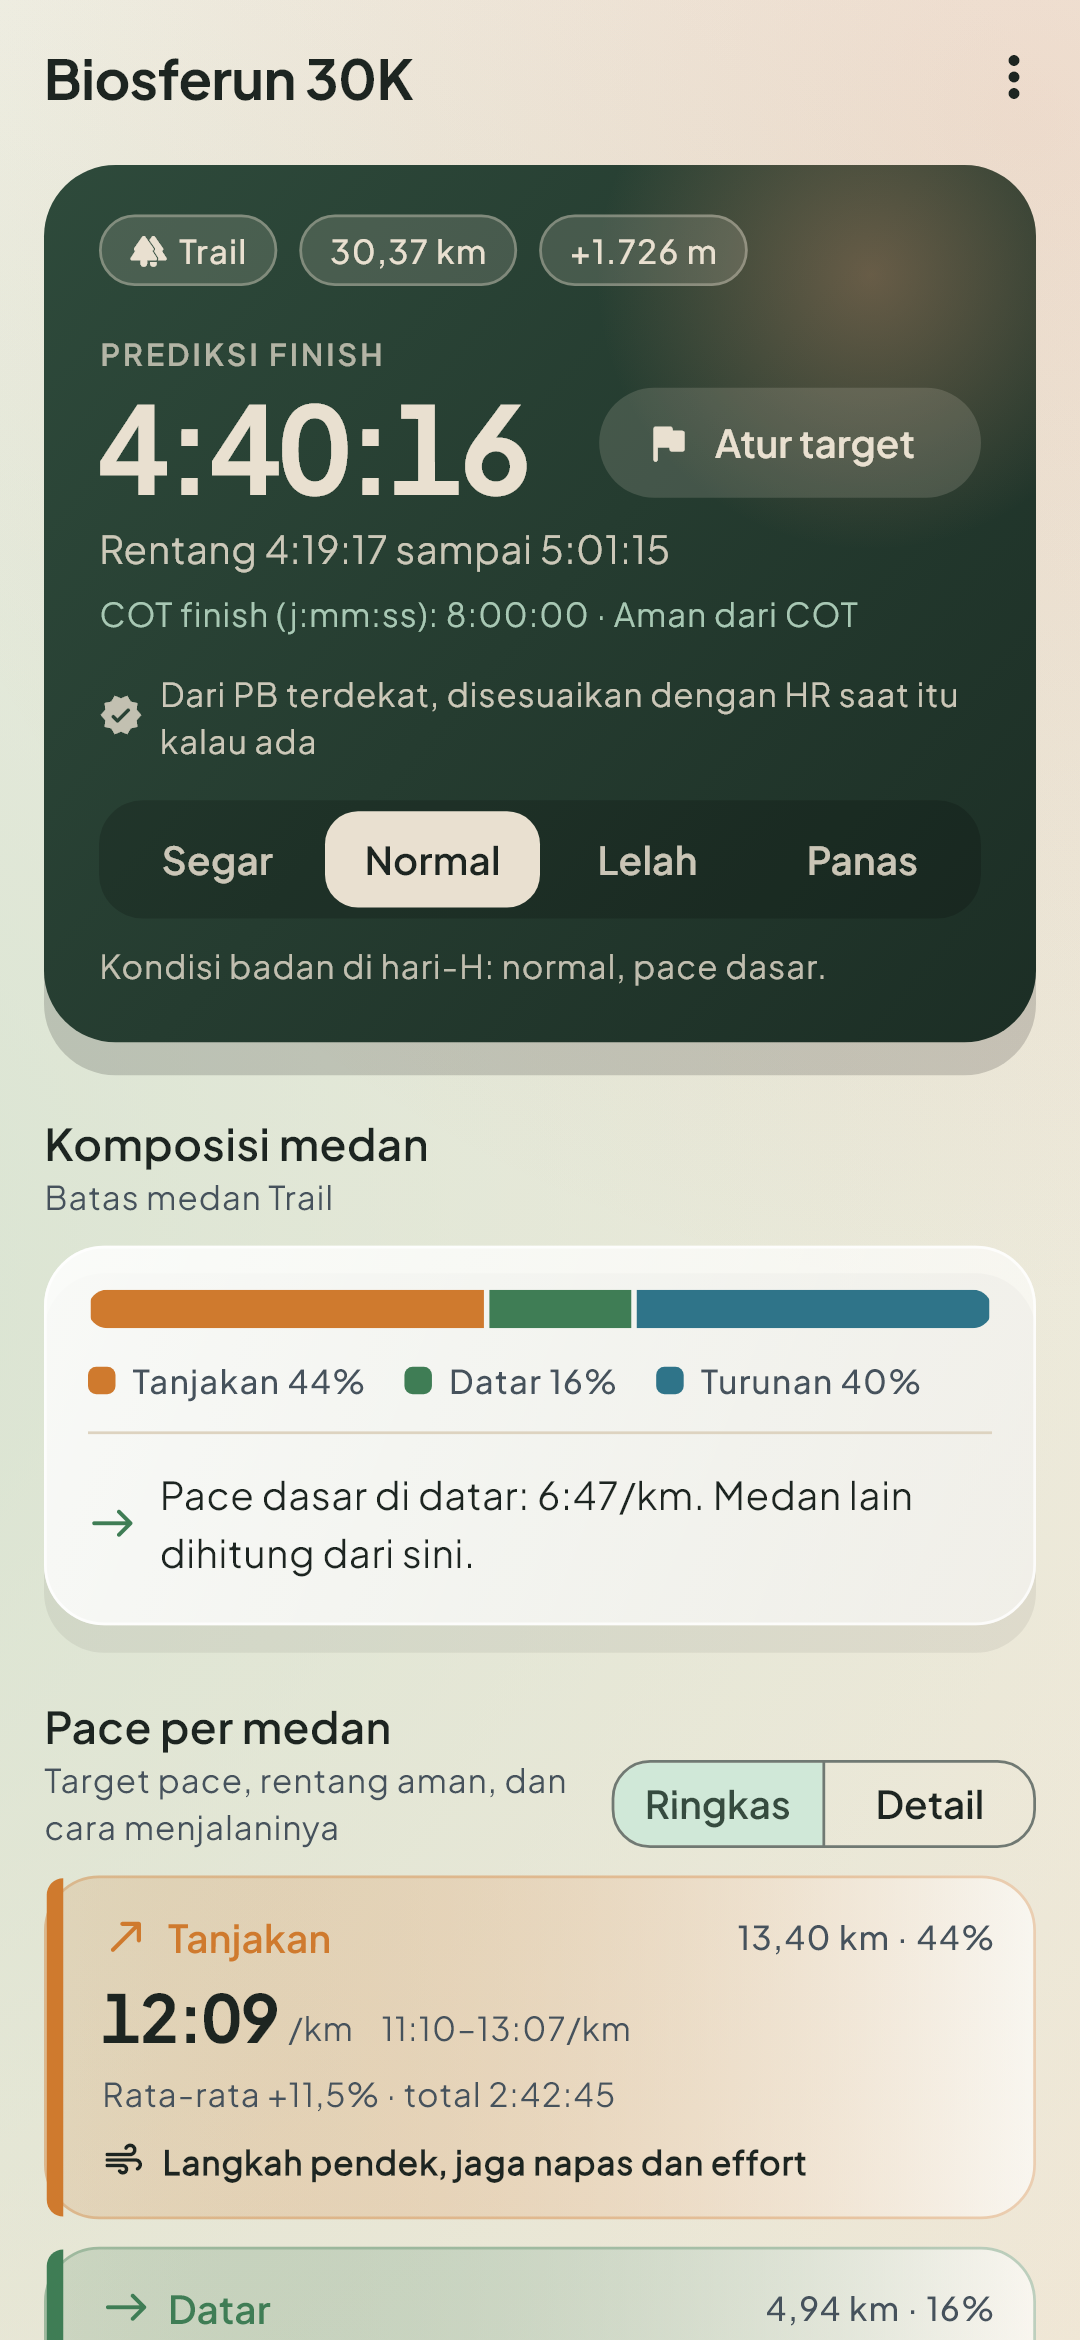
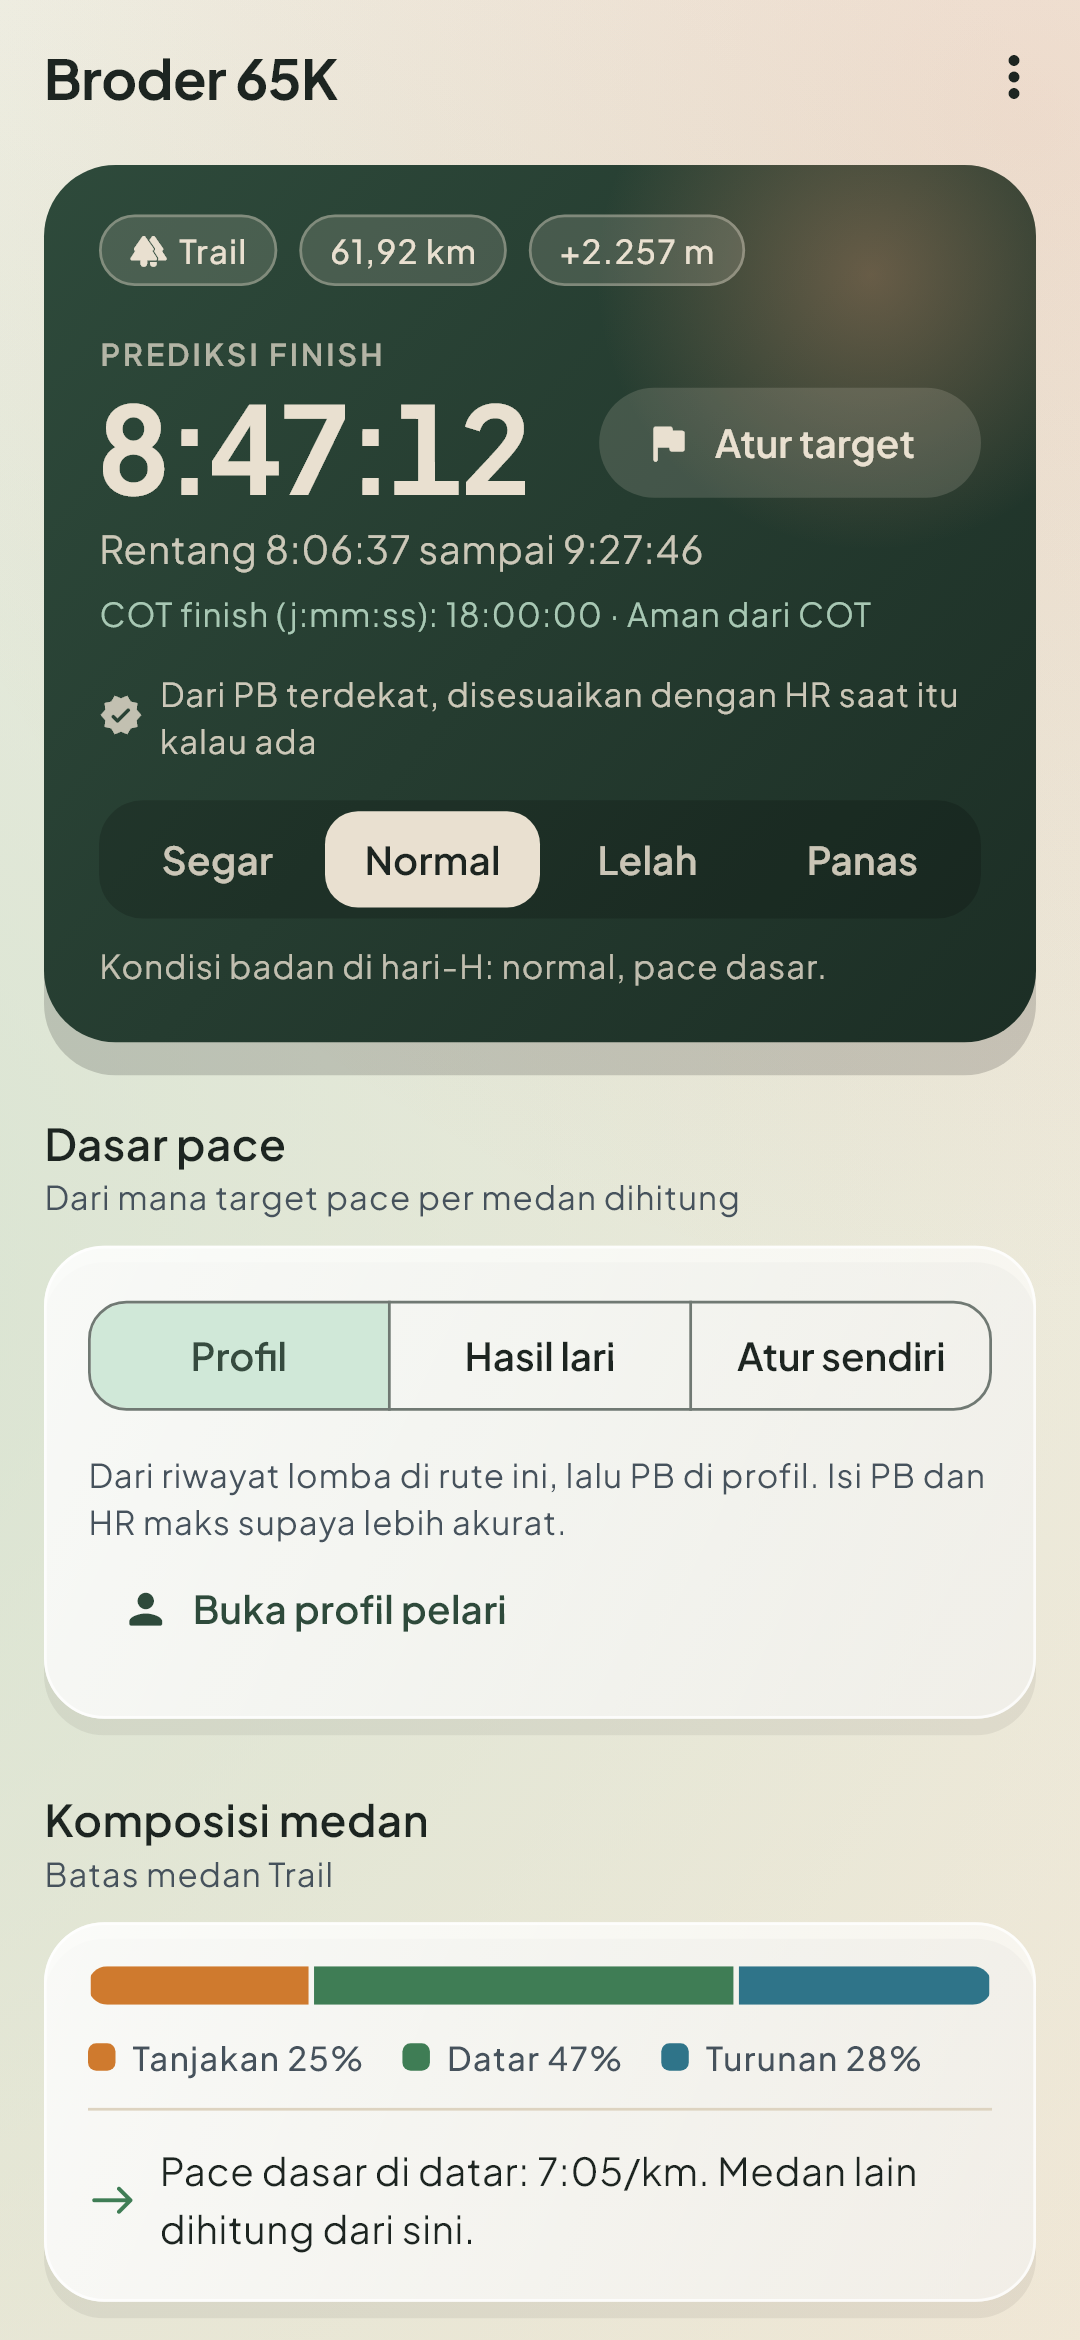
README: 13 tangkapan layar Broder 65K, dasar pace, dan sorotan rute

diff --git a/README.md b/README.md
@@ -21,28 +21,41 @@ Impor file GPX rute lomba, dan Terrail menghitung target pace untuk setiap tanja
 
 <table>
   <tr>
-    <td align="center"><img src="docs/screenshots/01-strategi.png" width="240"><br><sub>Prediksi atau target finish</sub></td>
-    <td align="center"><img src="docs/screenshots/02-pace-per-medan.png" width="240"><br><sub>Profil elevasi dan split per km</sub></td>
-    <td align="center"><img src="docs/screenshots/03-bekal.png" width="240"><br><sub>Bekal per segmen antar-WS</sub></td>
+    <td align="center"><img src="docs/screenshots/01-strategi.png" width="240"><br><sub>Prediksi finish dan dasar pace</sub></td>
+    <td align="center"><img src="docs/screenshots/02-sorotan.png" width="240"><br><sub>Sorotan rute: push, terberat, bekal</sub></td>
+    <td align="center"><img src="docs/screenshots/03-elevasi-sorotan.png" width="240"><br><sub>Sorotan di grafik elevasi</sub></td>
   </tr>
   <tr>
-    <td align="center"><img src="docs/screenshots/04-hasil.png" width="240"><br><sub>Analisis setelah lari</sub></td>
-    <td align="center"><img src="docs/screenshots/05-temuan.png" width="240"><br><sub>Pace aktual per medan</sub></td>
-    <td align="center"><img src="docs/screenshots/08-bekal-favorit.png" width="240"><br><sub>Bekal favorit</sub></td>
+    <td align="center"><img src="docs/screenshots/04-atur-pace.png" width="240"><br><sub>Atur pace sendiri</sub></td>
+    <td align="center"><img src="docs/screenshots/05-pace-per-medan.png" width="240"><br><sub>Target pace per medan</sub></td>
+    <td align="center"><img src="docs/screenshots/06-bekal.png" width="240"><br><sub>Bekal per segmen antar-WS</sub></td>
   </tr>
   <tr>
-    <td align="center"><img src="docs/screenshots/06-studio-kartu.png" width="240"><br><sub>Kartu pra-lomba dengan zona aman Story</sub></td>
-    <td align="center"><img src="docs/screenshots/07-studio-stiker.png" width="240"><br><sub>Stiker PNG transparan</sub></td>
+    <td align="center"><img src="docs/screenshots/07-hasil.png" width="240"><br><sub>Analisis setelah lari</sub></td>
+    <td align="center"><img src="docs/screenshots/08-temuan.png" width="240"><br><sub>Pace aktual per medan</sub></td>
+    <td align="center"><img src="docs/screenshots/09-studio-kartu.png" width="240"><br><sub>Kartu dengan zona aman Story</sub></td>
+  </tr>
+  <tr>
+    <td align="center"><img src="docs/screenshots/10-studio-stiker.png" width="240"><br><sub>Stiker PNG transparan</sub></td>
+    <td align="center"><img src="docs/screenshots/11-bekal-favorit.png" width="240"><br><sub>Bekal favorit</sub></td>
+    <td align="center"><img src="docs/screenshots/12-coros.png" width="240"><br><sub>Ambil dari COROS, gratis</sub></td>
+  </tr>
+  <tr>
+    <td align="center"><img src="docs/screenshots/13-huawei-health.png" width="240"><br><sub>Panduan Huawei Health</sub></td>
+    <td></td>
     <td></td>
   </tr>
 </table>
 
-<sub>Data di tangkapan layar memakai rute publik Biosferun 30K 2026.</sub>
+<sub>Rute di tangkapan layar: GPX publik Broder 65K 2026. Rekaman lari, HR, dan cadence di layar Hasil adalah contoh sintetis.</sub>
 
 ## Fitur
 
 ### Strategi
 - **Pace per medan.** Rute dibagi menjadi tanjakan curam, tanjakan, datar, turunan, dan turunan curam. Setiap medan punya target pace, rentang aman, porsi jarak, dan arahan seperti "jalan cepat (power hike)" atau "kendalikan laju, utamakan pijakan".
+- **Dasar pace bisa dipilih:** **Profil** (PB dan riwayat lomba di rute itu), **Hasil lari** (dipelajari dari rekaman lari yang sudah diimpor: seberapa cepat kamu di datar, tanjakan, dan turunan, lalu disesuaikan ke jarak lomba), atau **Atur sendiri** (pace datar plus gaya di tanjakan dan turunan, dari "kuat menanjak" sampai "banyak jalan", dari "hati-hati" sampai "berani").
+- **Sorotan rute:** bagian yang paling bisa dipush, tanjakan paling berat, turunan teknis, dan titik kritis bekal (sekitar 15 menit sebelum tanjakan besar), lengkap dengan rentang km, angka kunci, dan saran. Semuanya ditandai sebagai pita di grafik elevasi.
+- **Dengarkan tubuhmu:** pengingat bahwa rencana hanyalah panduan, dengan batas HR dari HR maks (misalnya jalan kalau HR di atas 85% di tanjakan) dan tanda bahaya yang perlu diwaspadai.
 - **Target finish.** Isi target, dan semua pace medan menyesuaikan supaya totalnya pas.
 - **Data seadanya tetap jalan.** Tanpa data apa pun, Terrail memakai perkiraan kasar dan menandainya dengan jelas. Makin lengkap datamu (PB, HR saat PB, berat badan, atau hasil lari di rute itu), makin akurat prediksinya.
 - **Skenario hari-H.** Segar, Normal, Lelah, atau Panas, lengkap dengan efeknya ke pace.
@@ -134,7 +147,7 @@ Terrail gratis dan akan tetap gratis. Kalau aplikasinya membantu latihan atau lo
 <details>
 <summary><b>English</b></summary>
 
-Terrail is a free, offline Android app for trail and road runners. Import a race GPX to get target pace for every climb, flat and descent (scaled to your finish target), a fuel plan translated into real foods and products, and km splits. Import a run from your watch for terrain pace, splits and automatic insights. The studio turns both into story or feed cards and transparent PNG stickers, with an Instagram Story safe zone. Import runs with heart rate and cadence from COROS (free, through COROS's official MCP server) or Strava (official API; creating a Strava API app needs a Strava subscription since June 2026), and follow the in-app guide to export GPX from Huawei Health. No Terrail account, all data stays on the phone; the internet permission is only used for Strava and COROS. Download the APK from the [latest release](https://github.com/alimxtar/terrail/releases/latest); Android 7.0 or newer. Terrail is free; if it helps you, you can support the developer on [Saweria](https://saweria.co/mxctr).
+Terrail is a free, offline Android app for trail and road runners. Import a race GPX to get target pace for every climb, flat and descent (from your profile, learned from your own runs, or set by hand, and scaled to your finish target), route highlights (where to push, the toughest climb, technical descents, and when to eat) marked on the elevation chart, a listen-to-your-body reminder with HR limits, a fuel plan translated into real foods and products, and km splits. Import a run from your watch for terrain pace, splits and automatic insights. The studio turns both into story or feed cards and transparent PNG stickers, with an Instagram Story safe zone. Import runs with heart rate and cadence from COROS (free, through COROS's official MCP server) or Strava (official API; creating a Strava API app needs a Strava subscription since June 2026), and follow the in-app guide to export GPX from Huawei Health. No Terrail account, all data stays on the phone; the internet permission is only used for Strava and COROS. Download the APK from the [latest release](https://github.com/alimxtar/terrail/releases/latest); Android 7.0 or newer. Terrail is free; if it helps you, you can support the developer on [Saweria](https://saweria.co/mxctr).
 
 </details>
 
